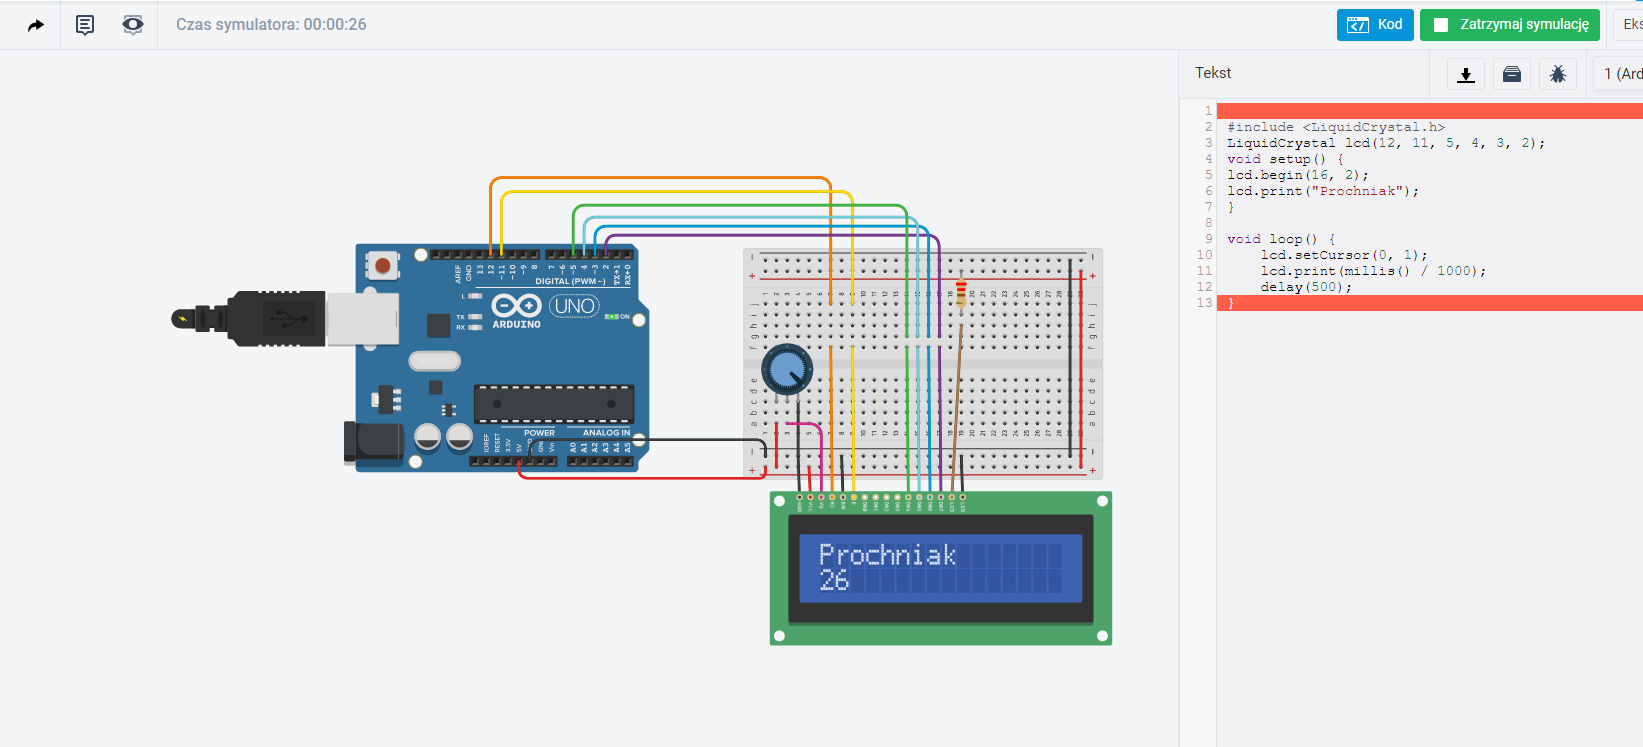
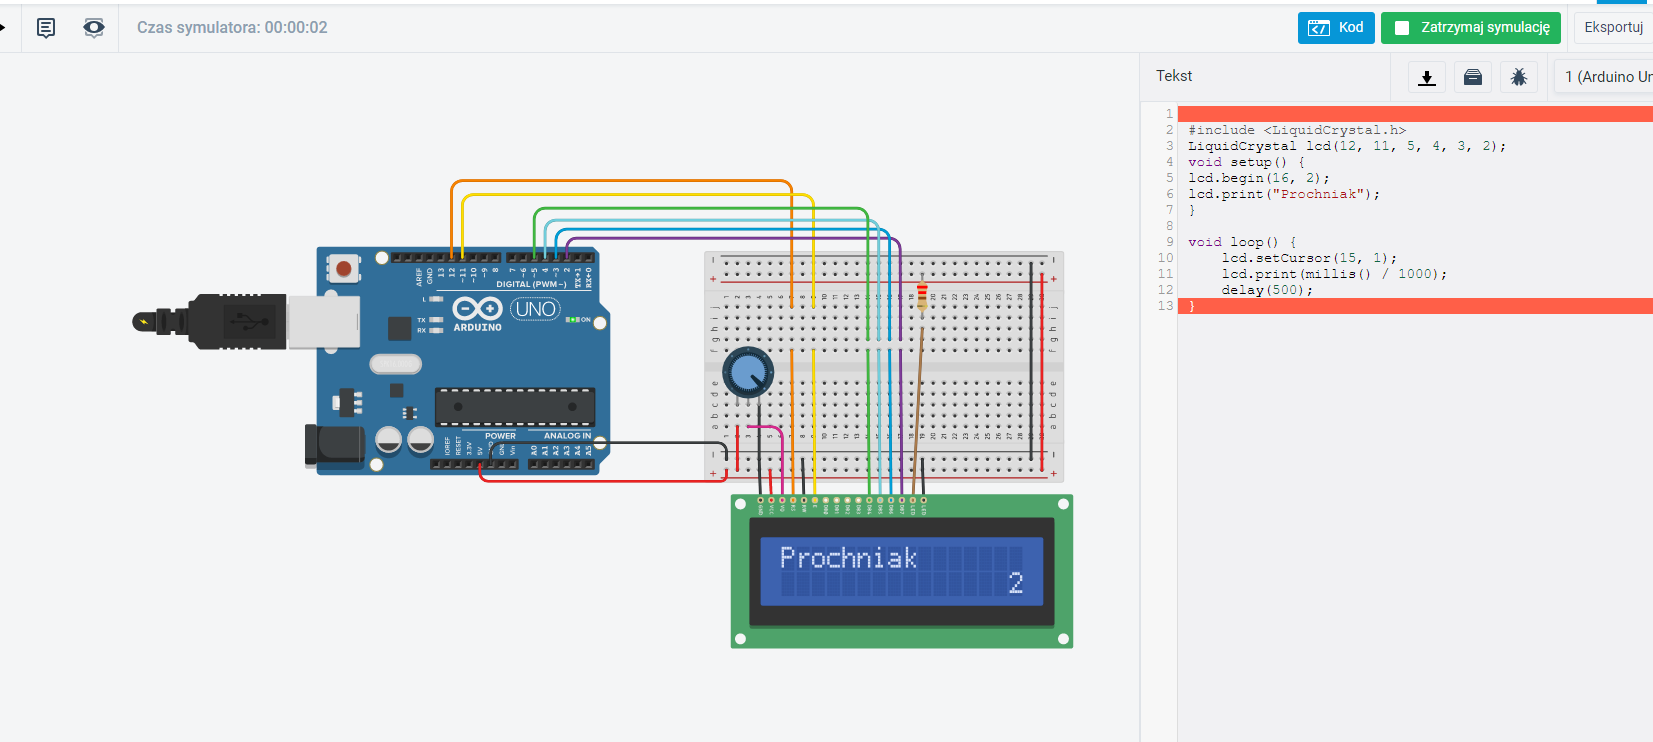
Wykonano zadanie 3.3.1 – tekst statyczny\

diff --git a/Zadanie-3-3/src/main.cpp b/Zadanie-3-3/src/main.cpp
@@ -7,7 +7,7 @@ lcd.print("Prochniak");
 }
 
 void loop() {  
-    lcd.setCursor(0, 1);
+    lcd.setCursor(15, 1);
     lcd.print(millis() / 1000);
     delay(500);
 }
